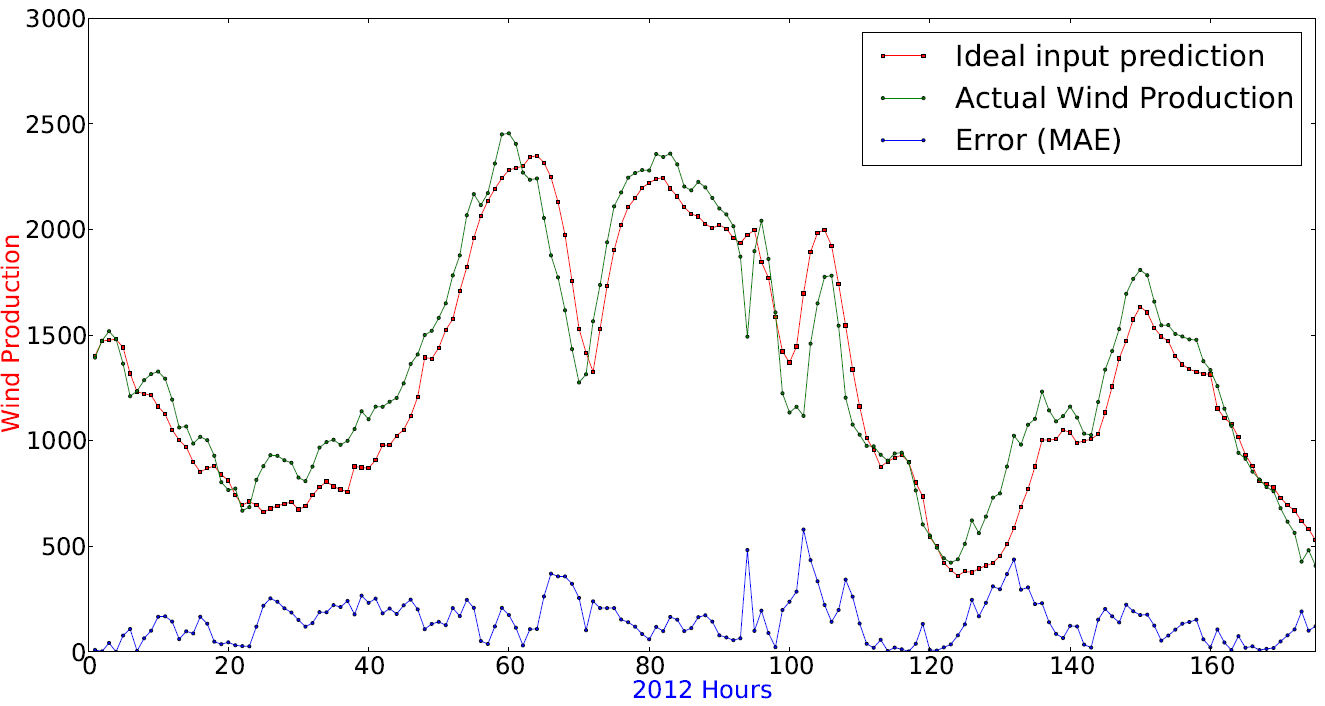
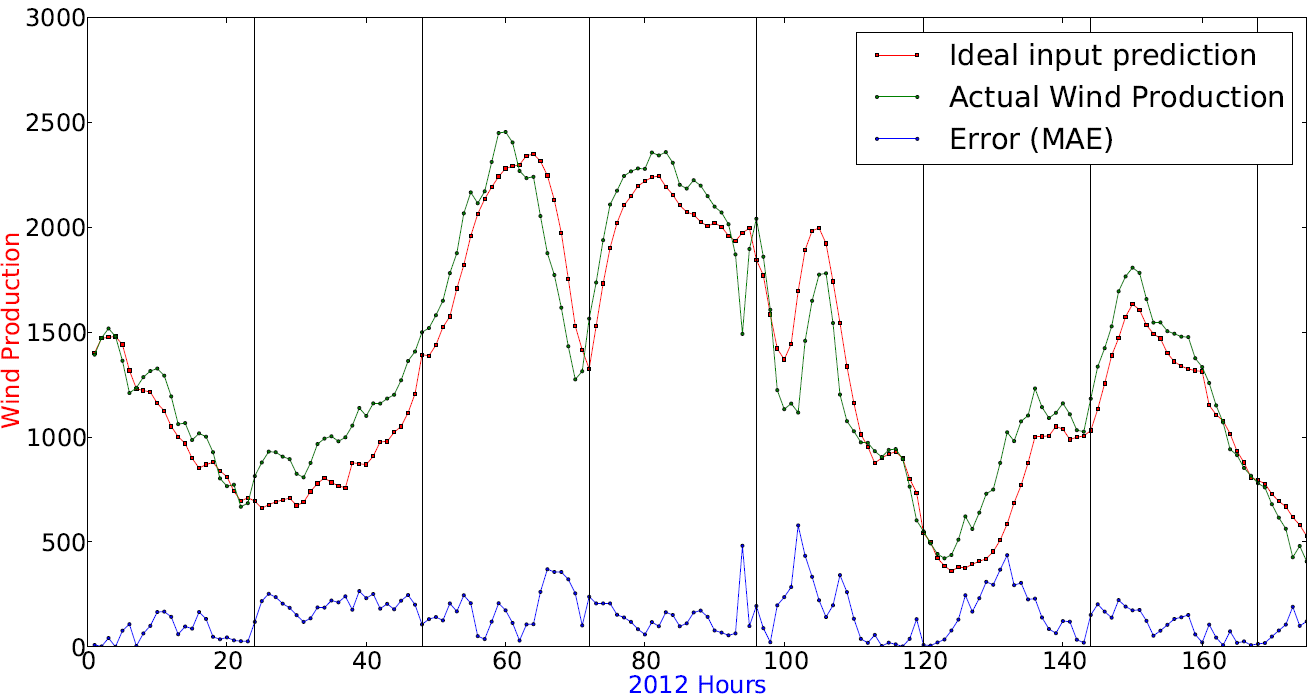
Structural changes in experiment discussion

diff --git a/sections/Experiments/WindProductionExperiments.tex b/sections/Experiments/WindProductionExperiments.tex
@@ -202,7 +202,7 @@ In experiments concerning prediction of wind production the month input paramete
 
 \subsubsection{Best prediction graph}
 \label{sec:bestInputCombiGraph}
-The first 175 hours of the best prediction from Table~\ref{table:windProdInputParamsTop10} can be seen in Figure~\ref{fig:bestInputParameterPrediction}. It can be observed that the prediction follows the trend of the actual wind production. The challenge is the time it takes to identify shifting trends and how much the trend is increasing or decreasing at that particular time. From hour 24-48 and 120-160 (see Figure~\ref{fig:bestInputCombi120-148}) the prediction is behind the actual slope and continues to under-shoot because it did not identify it from the beginning. Hours between 90-110 (see zoomed in Figure~\ref{fig:bestInputCombi96-120}) illustrates how the prediction does not detect to which extend the wind production is decreasing at that time and how it results in a significant overshoot when detecting the coming rising trend. The problems arise due to 24-hour-ahead prediction since every hour is based on the other predicted hours. If one hour misses its target there is a possibility for the next to do as well because it uses that prediction as input. The calculated approach described in Section~\ref{sec:usingStatisticalInput} can possible help in these cases by calculating trend or slope and use it as input to add further characteristics of the curve. Experiments will take up this approach for comparison. The graph in Figure~\ref{fig:bestInputParameterLowNumbers} shows the ability to predict low numbers and follow the trend back up again. The graph in Figure~\ref{fig:bestInputParameterPrediction} visualizes the error of the individual predictions. The error follows the prediction curve which is expected due to the fact that the error measure is MAE and measures the difference between the predicted and ideal value --- the higher the value the higher probability of shooting past it. MPE would have to opposite effect since it calculates the difference in percentage which would result in lower values having higher errors, e.g. if the ideal is 10 and the predicted value is 20, which is close in an interval from 0-2800, the MPE would be 100\%. The measure is described in Section~\ref{sec:maeStatistics}.
+The first 175 hours of the best prediction from Table~\ref{table:windProdInputParamsTop10} can be seen in Figure~\ref{fig:bestInputParameterPrediction}. It can be observed that the prediction follows the trend of the actual wind production. The challenge is the time it takes to identify shifting trends and how much the trend is increasing or decreasing at that particular time. From hour 24-48 and 120-160 (see zoomed Figure~\ref{fig:bestInputCombi120-148}) the prediction is behind the actual slope and continues to under-shoot because it did not identify it from the beginning. Hours between 90-110 (see zoomed in Figure~\ref{fig:bestInputCombi96-120}) illustrates how the prediction does not detect to which extend the wind production is decreasing at that time and how it results in a significant overshoot when detecting the coming rising trend. The problems arise due to 24-hour-ahead prediction marked by the vertical lines in Figure~\ref{fig:bestInputParameterPrediction} since every hour is based on the previous predicted hours. If one hour misses its target there is a possibility for the next to do as well because it uses that prediction as input. The graphs show that the prediction can correct itself so that the error is not escalated to the last hour. This is due to the input parameters which highly affect the wind production so that it is adjusted according to when the curve starts a new trend. The calculated approach described in Section~\ref{sec:usingStatisticalInput} can possible help in these cases by calculating trend or slope and use it as input to add further characteristics of the curve. Experiments will take up this approach for comparison. The graph in Figure~\ref{fig:bestInputParameterLowNumbers} shows the ability to predict low numbers and follow the trend back up again. The graph in Figure~\ref{fig:bestInputParameterPrediction} visualizes the error of the individual predictions. The error follows the prediction curve which is expected due to the fact that the error measure is MAE and measures the difference between the predicted and ideal value --- the higher the value the higher probability of shooting past it. MPE would have to opposite effect since it calculates the difference in percentage which would result in lower values having higher errors, e.g. if the ideal is 10 and the predicted value is 20, which is close in an interval from 0-2800, the MPE would be 100\%. The measure is described in Section~\ref{sec:maeStatistics}.
 
 \begin{figure}[H]
 \centering
@@ -313,6 +313,34 @@ Wind speeds are represented by 41 different values in our data set which can exp
 \end{center}
 
 \subsubsection{Prediction - Trimming}
+The need for trimming exists if irregularities exist or you want to narrow the narrow down the dataset and focus the prediction. In wind power production such values do not exist in our dataset because we want to predict all values over the entire year. This does leave out the possibility that trimming could make the prediction more accurate on certain values outside of the trimmed values. This is disproved in the context of wind power in Table~\ref{table:trimmingOnBothSetsTable} where all types of trim results in a worsening in MAE. This indicates that values that are necessary for the generalization function to approach its target are removed during trimming. Section~\ref{sec:windProductionDev} shows how the trimming would affect the dataset and it is clear that when values are removed it cuts directly in a curve. It results in the possibility of actually creating irregularities.
+
+\begin{center}
+\begin{longtable}{|c|c|c|c|c|c|c|c|c|c|c|}
+\hline
+\textbf{WS} & \textbf{AD} & \textbf{C} & \textbf{T} & \textbf{WD} & \textbf{L-P} & \textbf{ToD} & \textbf{MAE} & \textbf{\% from \#1} &  \textbf{H1} & \textbf{H2}  \\
+\hline
+\endfirsthead
+\multicolumn{11}{c}%
+{\tablename\ \thetable\ -- \textit{Continued from previous page}} \\
+\hline
+\textbf{WS} & \textbf{AD} & \textbf{C} & \textbf{T} & \textbf{WD} & \textbf{L-P} & \textbf{ToD} & \textbf{MAE} & \textbf{\% from \#1} &  \textbf{H1} & \textbf{H2}  \\
+\hline
+\endhead
+\hline \multicolumn{11}{r}{\textit{Continued on next page}} \\
+\endfoot
+\hline
+\endlastfoot
+\arrayrulecolor{light-gray}
+4\% & 132,13 & 0,0\% & 40 & 2076 \\ \hline
+1\% & 140,09 & 6,02\% & 14 & 2416  \\ \hline
+5\% & 143,21 & 8,39\% & 49 & 2018  \\ \hline
+2\% & 144,54 & 9,39\% & 23 & 2270  \\ \hline
+3\% & 144,56 & 9,41\% & 31 & 2154  \\ \hline
+\caption{Trimming from 1\% to 5\%}
+\label{table:trimmingOnBothSetsTable}
+\end{longtable}
+\end{center}
 \todo{make it}
 
 \subsubsection{Best prediction graph}
@@ -663,7 +691,7 @@ The parameters are tested with the following configurations:
 \end{itemize}
 
 \subsubsection{Prediction - Epochs}
-The number of epochs influence the prediction significantly which is established in Table~\ref{table:bestPredictionEpochExperiment}. It is obvious that too few epochs will result in the network being "under-trained". It is obvious from 1 and 10 epochs that the initial random weights of the network has not yet been adjusted to reflect the training set and therefore predicts randomly. Furthermore, when the number of epochs reach above 2000 it achieves a worse MAE in general. The best result is obtained by 2-300 epochs but with 1200 right after. The results reflect how different epochs affect the production but also how the network can be under-trained or over-trained by either too many or too few epochs.
+The number of epochs influence the prediction significantly which is established in Table~\ref{table:bestPredictionEpochExperiment}. It is obvious that too few epochs will result in the network being "under-trained". It is obvious from 1 and 10 epochs that the initial random weights of the network has not yet been adjusted to reflect the training set and therefore predicts randomly. Furthermore, when the number of epochs reach above 2000 it achieves a worse MAE in general. The best result is obtained by 2-300 epochs but with 1200 right after. The results reflect how different epochs affect the production but also how the network can be under-trained or over-trained by either too many or too few epochs. It is obvious from the table that the time in seconds moves up with the number of epochs.
 
 
 \begin{center}
@@ -715,10 +743,8 @@ The number of epochs influence the prediction significantly which is established
 \end{longtable}
 \end{center}
 
-\todo{say something about time even though it is pretty obvious}
-
 \subsubsection{Prediction - Dataset size}
-The size of the dataset has already been discussed during the initial experiments with the best combination of input parameters. Too large training sets can result in over-training as described in\cite{1}, e.g. the dataset contains a lot of different cases and because of that has difficulties when predicting the unseen data of only 24 hours. The over-training consists in the network generalizing upon all cases which can become noise when trying to predict only one of these cases. This corresponds well with wind power production and its high volatility and seasonal. This must be differentiated with overfitting with too many epochs where weights are being adjusted to the same training set over and over again whereas it in the case of data size simply "knows to much" because too much data makes it hard to generalize. If a training set contains many of the same cases the over-training will be much similar to the one with epochs since it will see the same case over and over again. The weights will be adjusted to that same case again and again and a lower number of epochs are needed. The training set must not be too small because it needs enough cases to generalize upon. Different training set sizes have been tried and the results can be seen in Table~\ref{table:bestPredictionDatasetSizeTest}. The result is as expected since both the small and big datasets are outperformed by the 3 month.
+The size of the dataset has already been discussed during the initial experiments with the best combination of input parameters. Too large training sets can result in over-training as described in\cite{1}, e.g. the dataset contains a lot of different cases and because of that has difficulties when predicting the unseen data of only 24 hours. The over-training consists in the network generalizing upon all cases which can become noise when trying to predict only one of these cases. This corresponds well with wind power production and its high volatility and seasonal. This must be differentiated with overfitting with too many epochs where weights are being adjusted to the same training set over and over again whereas it in the case of data size simply "knows to much" because too much data makes it hard to generalize. If a training set contains many of the same cases the over-training will be much similar to the one with epochs since it will see the same case over and over again. The weights will be adjusted to that same case again and again and a lower number of epochs are needed. The training set must not be too small because it needs enough cases to generalize upon. Different training set sizes have been tried and the results can be seen in Table~\ref{table:bestPredictionDatasetSizeTest}. The result is as expected since both the small and big datasets are outperformed by the 3 month. Furthermore, time increases with the size of the data and the 2nd lowest is the best prediction.
 
 \begin{center}
 \begin{longtable}{|c|c|c|c|}
@@ -746,8 +772,6 @@ The size of the dataset has already been discussed during the initial experiment
 \label{table:bestPredictionDatasetSizeTest}
 \end{longtable}
 \end{center}
-
-\todo{time discussion}
 
 \subsubsection{Hidden Layers and Neurons}
 Done by pruning. Is it necessary to say something about the network size or can we rely on the literature telling us that pruning is a tool to find the best network?

diff --git a/sections/NetworkDiscussion/annDiscussion.tex b/sections/NetworkDiscussion/annDiscussion.tex
@@ -1,58 +1,36 @@
 This section discusses the results based on both electricity prices and wind production.
 
-\subsection{Wind production vs. electricity price experiments}
-NOTE FORM FOR DISCUSSION (NOT YET FINISHED):
-
-\begin{enumerate}
-\item Seasonality is significant in both. Size of training set is the same due  to this fact. Less is better in both cases since they posses same characteristics in relation to volatility, seasonality and are both highly related to the electricity market seen in the co-relation to consumption.
-\item Matrix is in both cases an improvement. Time of day matrix has been applied on both but the improvement is much more apparent in the electricity price forecast. The reason must be found in the co-relation between time of day and electricity price being much more significant due to the consumer market. Time of day in relation to wind power production is much more random since the production follows wind speed more directly. We can't control the weather. 
-\item Trimming is most applicable when irregularities exist in the dataset that cannot be predicted. Wind power production showed no such irregularities and trimming it would make these values impossible to predict. Electricity prices on the other hand showed unpredictable values \todo{ref to drawing of trimming in both cases}. The overall prediction improved with 20\% with trimming applied. \todo{trimming and live data?}
-\item Calculated inputs were applied in both predictions and showed slight improvement. In electricty price prediction the small improvement was seen with curve, skewness and volatility as input but saw no difference when applying scatter\todo{see section}. The best result was the combination of skew and volatility but significantly better than the other combinations. In the case prediction of wind power production the use of volatility was the only one showing an improvement. What can be concluded here is how adding more characteristics about the movement of the curve can help the generalization of the network to approach its target even though only slightly. Further analysis and experimentation with other methods could possibly lead to better performance \todo{ref to alternatives in economics}.
-\item Black box showed in both cases what was expected of it. The best set-up must be found through experiments and testing. Fine-tuning the network is done by testing different epochs and size of data. It also revealed the expected over- and under-fitting when either using too many epochs or too few. To much data can also result in overtraining since the network cannot generalize beyond a certain amount of data --- the right amount must be found in experiments. 
-\item The step-ahead forecasting showed how the less hours to predict the better mae. In electricity prices the error is linear to the number of steps to predict until a certain point (around 8) where it flattens out. It is necessary to identify a technique to reduce the elevation of errors from step to step. The problem as significant in wind power production because it heavily relies on wind speed and can follow it whereas the price relies greatly on the last known price --- thus making it more likely to elevate the error. 
-\end{enumerate}
-
 \todo{discuss how different starting points in both cases affected the predictions. Nobody else discusses that the predictions heavily depends on the starting point. We still believe the results to be correct since they were compared based on the same starting points and therefore predicted the same hours}
 
+\todo{compare trimming in more detail}
 \todo{discuss reconfigurability of the system when used in real life setting}
 
 \todo{compare matrix between price and production. It is obvious that the bigger difference between high and low during the day makes the benefits from matrix more clear for price than for production}.
 
-\subsection{The importance of DATA ANALYSIS}
-The strength of the prediction is very much dependent on the quality of the underlying data. As described in Section~\ref{sec:dataCollection} the data must satisfy certain criteria before it can be used as input and output in the Artificial Neural Network. It must be trustworthy and contain hourly observations for our specific purpose, e.g. day-ahead prediction based on a dataset that consists of hourly observations. All calculations in the ANN are based on this data which makes it of utmost importance for the output, the forecast.
 
-\subsubsection{Input parameters}
-The most basic foundation for the Artificial Neural Network is the input parameters. The need for identifying what influences the value to predict is the first step when predicting. The analysis of both electricity price and wind production in Section\todo{analysis section} together with the experiments show how the combination of the right parameters is the core to a good prediction. The analysis section establishes the co-relation between input/output which is then validated through the experiments. Analysis of the network is complex due to the black box nature of ANNs. It finds connections and combinations of input that you cant statistically or logically foresee \todo{exemplify}.
+\subsubsection{The importance of DATA ANALYSIS}
+\input{sections/ExperimentDiscussion/importanceOfDataAnalysis.tex}
 
-It is obvious from the two predictions that the same calculated input does not apply for both. Curve is bas for wind power production whereas it has no effect on the price prediction.
+\subsubsection{Input parameters - brian}
+\input{sections/ExperimentDiscussion/inputParameters.tex}
 
-\todo{A VERY DEEP UNDERSTANDING OF THE INPUT IS NEEDED --- talk about that}
-\todo{discuss that we are not using predicted weather data}
+\subsubsection{Data Manipulation - Kristian}
+\input{sections/ExperimentDiscussion/dataManipulation.tex}
 
-\subsubsection{Data Manipulation - k}
-De andre tekster undlader i stor omfang at snakke om input i forhold til konkret data, trimming og manipulation af det konkrete data. Sammenstil det med vores eget. Reflekter og konkluder.
+\subsubsection{Calculated inputs - brian}
+\input{sections/ExperimentDiscussion/calcInputs.tex}
 
-== the best possible prediction. Hvad er med til at give det bedste result.
+\subsubsection{Black box optimization - kristian}
+\input{sections/ExperimentDiscussion/blackBoxOptimization.tex}
 
-The experiments emphasize the need for manipulation of data before predicting. Not necessarily in the way but data always needs to be pre-processed. 
-
-\subsection{ANNs ability to predict}
-
-
-Neural works as basis for a decision support system. If ANN can predict can it then be used in the real life? Discussion about how this is related the text where the results are ambiguous 
-Artificial Neural Networks can it itself be considered as a Optimization Based Support Model which is described in Section \todo{section and discuss further}. The trust of the forecast is critical and especially when dealing with ANNs because they are a black box. 
-
-Discuss this in relation to DSS and how it relates to it. It is here important to emphasize that in order to use this a lot of things around it has to be build. When used in a real life setting the user just need to know the input, a high level description of what happens and then the output.
-This is not a one-click solution and it requires a lot of configuration \todo{vi har masser skrevet om dette, ref, trade-offs, small / big values. Step-ahead forecasting, trimming, size}. The system is for experts and they can base there prediction on there own experience --- for instance an expert might now that high prices now together with the current market won't most likely won't result in lower prices, therefore the system does not need to consider low values. High configurable but still easy-to-use.
+\subsubsection{Step-ahead forecasting - kristian}
+\input{sections/ExperimentDiscussion/stepAheadForecasting.tex}
 
 \subsection{Testing}
-REALLY IMPORTANT. TIME CONSUMING.
-TODO: talk about how testing is time consuming. All tests run for long time
+\input{sections/ExperimentDiscussion/Testing.tex}
 
-TODO: the results are not definitive but what we can do is see tendencies in what parameters really matter.
-
-TODO: ideal world endless test --> neural network requires a lot of testing
-
+\subsection{ANNs ability to predict}
+\input{sections/ExperimentDiscussion/abilityToPredict.tex}
 
 \subsection{Comparison with other results}
 ?????
@@ -64,18 +42,7 @@ USE MAIN CONCEPTS TO DISCUSS RESULTS!
 \todo{what makes this ai or machine learning}
 
 \subsection{Future work}
-this section will discuss what can be done in relation to strategies or other attempts to improve accuracy of the predictions.
-
-\subsubsection{Recalculate}
-POTENTIAL STRATEGY
-The re-calculation concept works by letting other neural networks re-calculate the prediction from the original network. The purpose is to identify places where the generalization function has problems and then divide it into new neural networks that only have the purpose of focusing on these problematic situations. For simplicity we are going to apply this to the small numbers and big numbers of the dataset. We will define what is small and big by taking the 2 and 98 percentile. Whenever the "original" network predicts something in or close to the big or small interval then the responsibility of that prediction is forwarded to one of the two. It works like a second opinion but here the network has been specialized to only focus on a specific part of the dataset instead of everything\todo{give example of corrections}. It creates a normalization function on a smaller dataset and the idea is to leave out a lot of unnecessary information. It does not need to account for anything other than its interval in the generalization function so it should be able to predict its target group better. We let the original network decide if it actually thinks we are in the low numbers --- if we are then we can possibly make that prediction even more accurate. These thoughts could basically we applied on all other parts of possible wind production values. 
-
-Problem can occur if the intervals are too small which will cause the dataset to be too small and hard for the ANN to generalize upon.
-
-\subsubsection{Prediction - Similar Days}
-The similar days approach is described in Section~\ref{sec:sdmApproach} and addresses what to include in the dataset based on parameters. Wind power production follows wind speed and the expectation is that if filtering out days with completely different wind speeds and productions then a better accuracy can be obtained. The similar days analysis will take all wind speeds from the hours to predict and find all days within this interval plus/minus one in each end, e.g. an interval of wind speeds between 4-9 would result in similar days between 3-10. There is a potential for not getting the entire picture when using similar days. It can be related to the discussion about wind speed as matrix and how some values are under-represented in the dataset. In could happens in shifting seasons that wind speeds are never seen before and therefore run into a dataset without many hours. In those cases the entire dataset is used instead. The analysis in Section~\ref{sec:windProdSeasonality} describes the difference from season to season.
-
-We can see from Table~\ref{table:theSimilarDaysApproach3monthTable} that the results are much equal to the best input combination from Table~\ref{table:windProdInputParamsTop10}. The purpose of the similar days is to filter out unnecessary noise from the dataset but since the dataset is of a manageable size and in itself contain a seasonal aspect it does not filter out many values as seen in the table. When applying it on an entire year more values are filtered out but it cannot make up for the increase in dataset as seen in Table~\ref{table:theSimilarDaysApproachYearTable}.
+\input{sections/ExperimentDiscussion/futureWork.tex}
 
 \todo{USE THE MODEL FROM UNCERTAIN INFORMATION}
 

diff --git a/sections/ExperimentDiscussion/futureWork.tex b/sections/ExperimentDiscussion/futureWork.tex
@@ -1,0 +1,12 @@
+this section will discuss what can be done in relation to strategies or other attempts to improve accuracy of the predictions.
+
+\subsubsection{Recalculate}
+POTENTIAL STRATEGY
+The re-calculation concept works by letting other neural networks re-calculate the prediction from the original network. The purpose is to identify places where the generalization function has problems and then divide it into new neural networks that only have the purpose of focusing on these problematic situations. For simplicity we are going to apply this to the small numbers and big numbers of the dataset. We will define what is small and big by taking the 2 and 98 percentile. Whenever the "original" network predicts something in or close to the big or small interval then the responsibility of that prediction is forwarded to one of the two. It works like a second opinion but here the network has been specialized to only focus on a specific part of the dataset instead of everything\todo{give example of corrections}. It creates a normalization function on a smaller dataset and the idea is to leave out a lot of unnecessary information. It does not need to account for anything other than its interval in the generalization function so it should be able to predict its target group better. We let the original network decide if it actually thinks we are in the low numbers --- if we are then we can possibly make that prediction even more accurate. These thoughts could basically we applied on all other parts of possible wind production values. 
+
+Problem can occur if the intervals are too small which will cause the dataset to be too small and hard for the ANN to generalize upon.
+
+\subsubsection{Prediction - Similar Days}
+The similar days approach is described in Section~\ref{sec:sdmApproach} and addresses what to include in the dataset based on parameters. Wind power production follows wind speed and the expectation is that if filtering out days with completely different wind speeds and productions then a better accuracy can be obtained. The similar days analysis will take all wind speeds from the hours to predict and find all days within this interval plus/minus one in each end, e.g. an interval of wind speeds between 4-9 would result in similar days between 3-10. There is a potential for not getting the entire picture when using similar days. It can be related to the discussion about wind speed as matrix and how some values are under-represented in the dataset. In could happens in shifting seasons that wind speeds are never seen before and therefore run into a dataset without many hours. In those cases the entire dataset is used instead. The analysis in Section~\ref{sec:windProdSeasonality} describes the difference from season to season.
+
+We can see from Table~\ref{table:theSimilarDaysApproach3monthTable} that the results are much equal to the best input combination from Table~\ref{table:windProdInputParamsTop10}. The purpose of the similar days is to filter out unnecessary noise from the dataset but since the dataset is of a manageable size and in itself contain a seasonal aspect it does not filter out many values as seen in the table. When applying it on an entire year more values are filtered out but it cannot make up for the increase in dataset as seen in Table~\ref{table:theSimilarDaysApproachYearTable}.

diff --git a/sections/GreenEnergyTrainingset/greenEnergyTrainingSet.tex b/sections/GreenEnergyTrainingset/greenEnergyTrainingSet.tex
@@ -1,7 +1,5 @@
-The purpose is to predict the total hourly wind production available on the energy market from all of western Denmark (DK1) with enough accuracy to make a green decision. It is important to note that it is the wind production available on the market and not the entire production of Western Denmark. The entire wind production would be much higher and is not all distributed through the deregulated market\ref{FIND ONE} - fx. vindstoed and private owned. This can also be seen by the correlation between consumption and wind production in Table~\ref{table:pearsonCoeficientWindProduction} and Figure~\ref{fig:consumptionVsWindProduction} which indicates that the production is moved into the market when the demand for electricity is high. Because the wind production follows market trends it is necessary to consider economical and statistical factors of the current market situation when predicting the production. It is our intention to get a close enough estimate so that it can be used as an indicator for the hourly amount of wind production in the market for the next 24 hours.
+The purpose is to predict the total hourly wind production available on the energy market from all of western Denmark (DK1). It is important to note that it is the wind production available on the market and not the entire production of Western Denmark. The entire wind production would be much higher and is not all distributed through the deregulated market\ref{FIND ONE} - fx. vindstoed and private owned. This can also be seen by the correlation between consumption and wind production in Table~\ref{table:pearsonCoeficientWindProduction} and Figure~\ref{fig:consumptionVsWindProduction} which indicates that the production is moved into the market when the demand for electricity is high. Because the wind production follows market trends it is necessary to consider economical and statistical factors of the current market situation when predicting the production. It is our intention to get a close enough estimate so that it can be used as an indicator for the hourly amount of wind production in the market for the next 24 hours.
 Most others have been forecasting the wind production for specific wind farms where exact weather conditions and wind mill throughput of the site was known. The assumption is that we loose accuracy without the actual throughputs of the windmills because it is directly proportional to the meteorological factors as presented in~\ref{sec:windmillPlacement}. 
-
-This is also more critical in the other examples because it is used to place the mills or the predict how much electricity the mill can sell the next year - a large investment would be lost if placed wrong. 
 
 It is not surprising that weather conditions directly impact the wind power generation. The typical input parameters for wind power prediction are wind speed, air density, temperature and pressure \cite{WindPowerGenerationUsingANN} with the most influential factor being wind speed because it is directly converted to power in the wind turbine. The following subsections will describe the parameters relationship to wind production and how it is used in the modeled ANN.
 

diff --git a/sections/ExperimentDiscussion/inputParameters.tex b/sections/ExperimentDiscussion/inputParameters.tex
@@ -1,0 +1,8 @@
+The most basic foundation for the Artificial Neural Network is the input parameters. The need for identifying what influences the value to predict is the first step when predicting. The analysis of both electricity price and wind production in Section\todo{analysis section} together with the experiments show how the combination of the right parameters is the core to a good prediction. The analysis section establishes the co-relation between input/output which is then validated through the experiments. Analysis of the network is complex due to the black box nature of ANNs. It finds connections and combinations of input that you cant statistically or logically foresee \todo{exemplify}.
+
+It is obvious from the two predictions that the same calculated input does not apply for both. Curve is bas for wind power production whereas it has no effect on the price prediction.
+
+\todo{A VERY DEEP UNDERSTANDING OF THE INPUT IS NEEDED --- talk about that}
+\todo{discuss that we are not using predicted weather data}
+
+Seasonality is significant in both. Size of training set is the same due to this fact. Less is better in both cases since they posses same characteristics in relation to volatility, seasonality and are both highly related to the electricity market seen in the co-relation to consumption.

diff --git a/sections/ExperimentDiscussion/dataManipulation.tex b/sections/ExperimentDiscussion/dataManipulation.tex
@@ -1,0 +1,9 @@
+De andre tekster undlader i stor omfang at snakke om input i forhold til konkret data, trimming og manipulation af det konkrete data. Sammenstil det med vores eget. Reflekter og konkluder.
+
+== the best possible prediction. Hvad er med til at give det bedste result.
+
+The experiments emphasize the need for manipulation of data before predicting. Not necessarily in the way but data always needs to be pre-processed.
+
+Matrix is in both cases an improvement. Time of day matrix has been applied on both but the improvement is much more apparent in the electricity price forecast. The reason must be found in the co-relation between time of day and electricity price being much more significant due to the consumer market. Time of day in relation to wind power production is much more random since the production follows wind speed more directly. We can't control the weather. 
+
+Trimming is most applicable when irregularities exist in the dataset that cannot be predicted. Wind power production showed no such irregularities and trimming it would make these values impossible to predict. Electricity prices on the other hand showed unpredictable values \todo{ref to drawing of trimming in both cases}. The overall prediction improved with 20\% with trimming applied. \todo{trimming and live data?}

diff --git a/sections/ExperimentDiscussion/abilityToPredict.tex b/sections/ExperimentDiscussion/abilityToPredict.tex
@@ -1,0 +1,5 @@
+Neural works as basis for a decision support system. If ANN can predict can it then be used in the real life? Discussion about how this is related the text where the results are ambiguous 
+Artificial Neural Networks can it itself be considered as a Optimization Based Support Model which is described in Section \todo{section and discuss further}. The trust of the forecast is critical and especially when dealing with ANNs because they are a black box. 
+
+Discuss this in relation to DSS and how it relates to it. It is here important to emphasize that in order to use this a lot of things around it has to be build. When used in a real life setting the user just need to know the input, a high level description of what happens and then the output.
+This is not a one-click solution and it requires a lot of configuration \todo{vi har masser skrevet om dette, ref, trade-offs, small / big values. Step-ahead forecasting, trimming, size}. The system is for experts and they can base there prediction on there own experience --- for instance an expert might now that high prices now together with the current market won't most likely won't result in lower prices, therefore the system does not need to consider low values. High configurable but still easy-to-use.

diff --git a/sections/ExperimentDiscussion/calcInputs.tex b/sections/ExperimentDiscussion/calcInputs.tex
@@ -1,0 +1,1 @@
+ Calculated inputs were applied in both predictions and showed slight improvement. In electricty price prediction the small improvement was seen with curve, skewness and volatility as input but saw no difference when applying scatter\todo{see section}. The best result was the combination of skew and volatility but significantly better than the other combinations. In the case prediction of wind power production the use of volatility was the only one showing an improvement. What can be concluded here is how adding more characteristics about the movement of the curve can help the generalization of the network to approach its target even though only slightly. Further analysis and experimentation with other methods could possibly lead to better performance \todo{ref to alternatives in economics}.

diff --git a/sections/ExperimentDiscussion/importanceOfDataAnalysis.tex b/sections/ExperimentDiscussion/importanceOfDataAnalysis.tex
@@ -1,0 +1,1 @@
+The strength of the prediction is very much dependent on the quality of the underlying data. As described in Section~\ref{sec:dataCollection} the data must satisfy certain criteria before it can be used as input and output in the Artificial Neural Network. It must be trustworthy and contain hourly observations for our specific purpose, e.g. day-ahead prediction based on a dataset that consists of hourly observations. All calculations in the ANN are based on this data which makes it of utmost importance for the output, the forecast.

diff --git a/sections/ExperimentDiscussion/stepAheadForecasting.tex b/sections/ExperimentDiscussion/stepAheadForecasting.tex
@@ -1,0 +1,1 @@
+The step-ahead forecasting showed how the less hours to predict the better mae. In electricity prices the error is linear to the number of steps to predict until a certain point (around 8) where it flattens out. It is necessary to identify a technique to reduce the elevation of errors from step to step. The problem is not as significant in wind power production because it heavily relies on wind speed and can follow it whereas the price relies greatly on the last known price --- thus making it more likely to elevate the error. 

diff --git a/sections/ExperimentDiscussion/blackBoxOptimization.tex b/sections/ExperimentDiscussion/blackBoxOptimization.tex
@@ -1,0 +1,1 @@
+Black box showed in both cases what was expected of it. The best set-up must be found through experiments and testing. Fine-tuning the network is done by testing different epochs and size of data. It also revealed the expected over- and under-fitting when either using too many epochs or too few. To much data can also result in overtraining since the network cannot generalize beyond a certain amount of data --- the right amount must be found in experiments. 

diff --git a/sections/ExperimentDiscussion/Testing.tex b/sections/ExperimentDiscussion/Testing.tex
@@ -1,0 +1,6 @@
+REALLY IMPORTANT. TIME CONSUMING.
+TODO: talk about how testing is time consuming. All tests run for long time
+
+TODO: the results are not definitive but what we can do is see tendencies in what parameters really matter.
+
+TODO: ideal world endless test --> neural network requires a lot of testing
